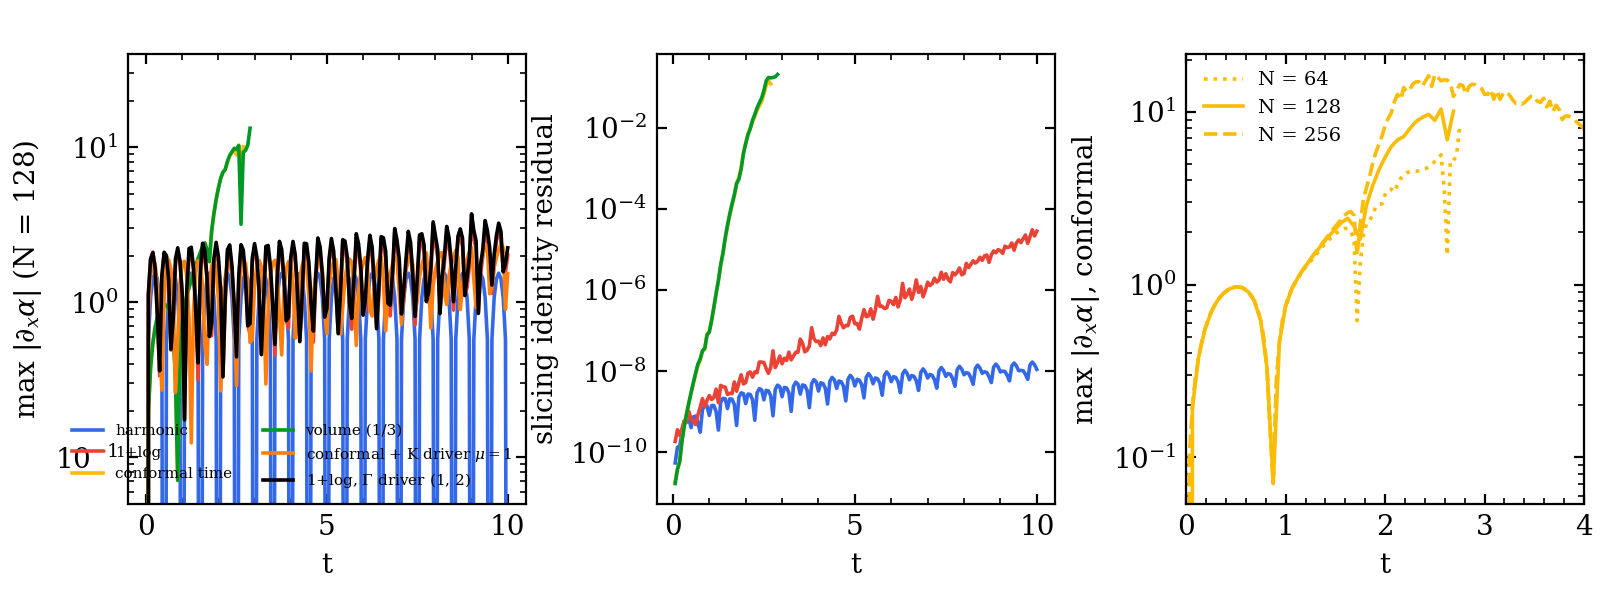
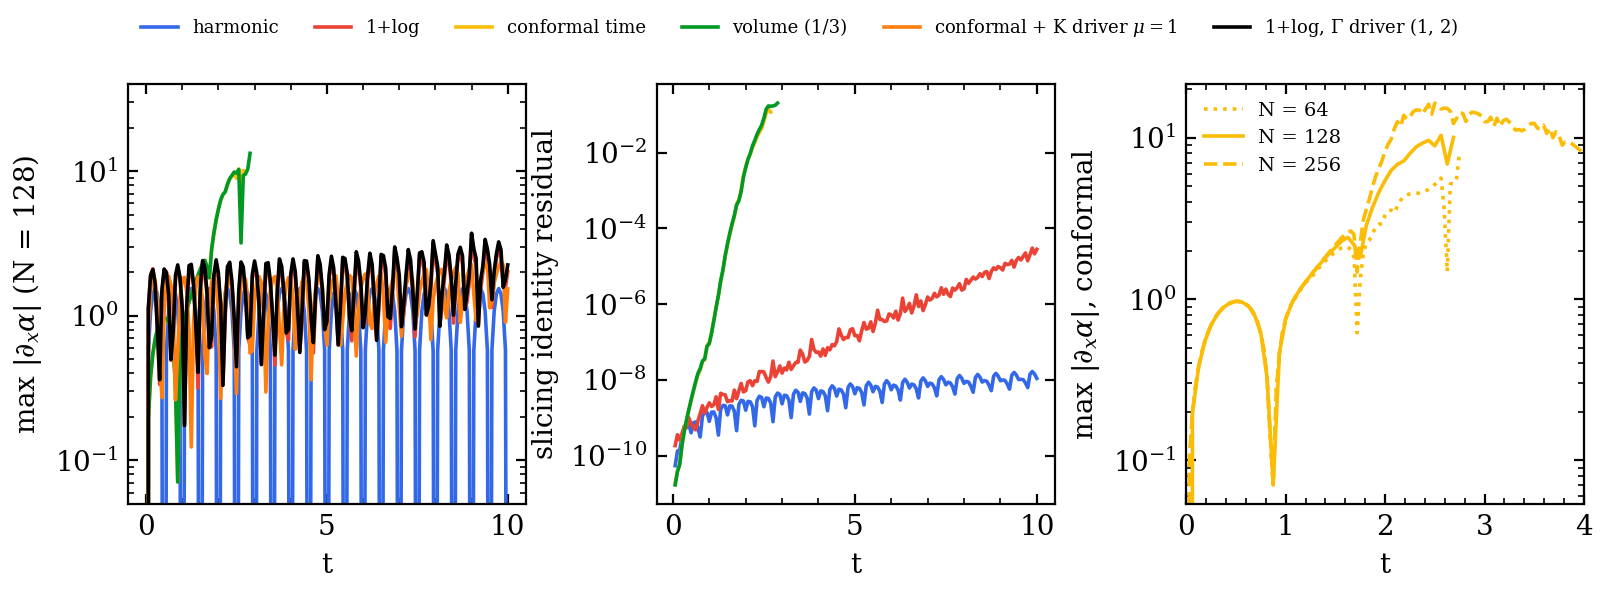
periodic_z4c: legend of the gauge-gradient figure above the panels
Claude-Session: https://claude.ai/code/session_01VD79cUYemmpt27M8dtYPfW

diff --git a/tracks/B-emd-gw/periodic_z4c/analysis/ana_gauge.py b/tracks/B-emd-gw/periodic_z4c/analysis/ana_gauge.py
@@ -137,7 +137,7 @@ def nonlinear(fig_prof, fig_grad):
     fig.subplots_adjust(left=0.08, right=0.99, bottom=0.09, top=0.94, hspace=0.25,
                         wspace=0.08)
     fig2, ax2 = plt.subplots(1, 3, figsize=(fs.FULL_WIDTH, 3.0))
-    fig2.subplots_adjust(left=0.08, right=0.99, bottom=0.16, top=0.91, wspace=0.33)
+    fig2.subplots_adjust(left=0.08, right=0.99, bottom=0.16, top=0.86, wspace=0.33)
     out = {}
     colg = {"harmonic": fs.PAL["blue"], "onelog": fs.PAL["red"],
             "conformal": fs.PAL["yellow"], "volume": fs.PAL["green"],
@@ -191,7 +191,8 @@ def nonlinear(fig_prof, fig_grad):
     ax2[0].set_xlabel("t")
     ax2[0].set_ylabel(r"max $|\partial_x\alpha|$ (N = 128)")
     ax2[0].set_ylim(0.05, 40)
-    ax2[0].legend(fontsize=5.5, loc="lower right", ncol=2)
+    h, l = ax2[0].get_legend_handles_labels()
+    fig2.legend(h, l, loc="upper center", ncol=6, fontsize=6.5, bbox_to_anchor=(0.5, 1.0))
     ax2[1].set_xlabel("t")
     ax2[1].set_ylabel("slicing identity residual")
     ax2[2].set_xlabel("t")
